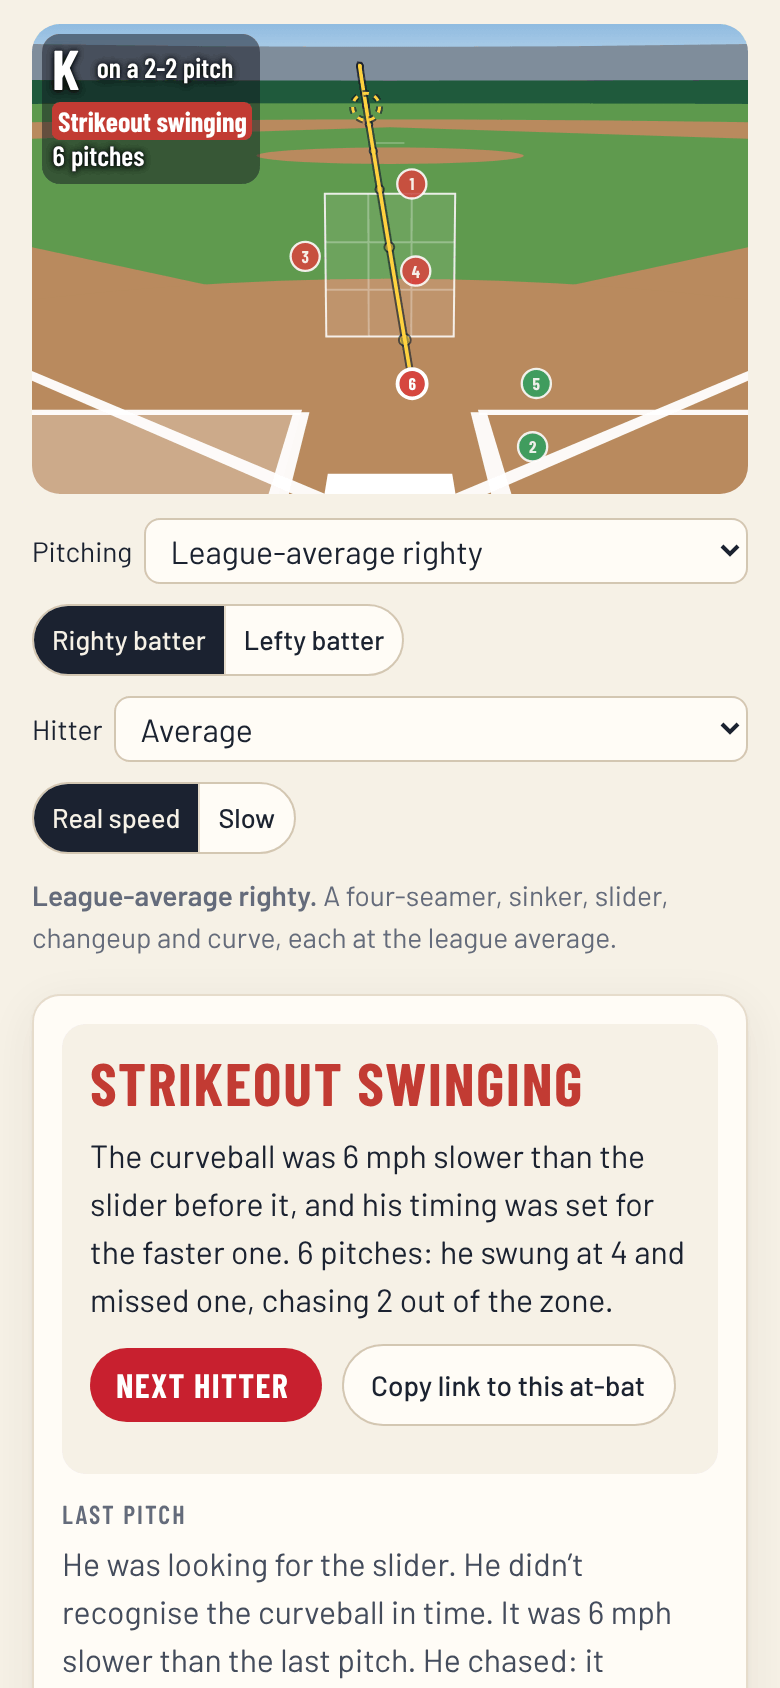
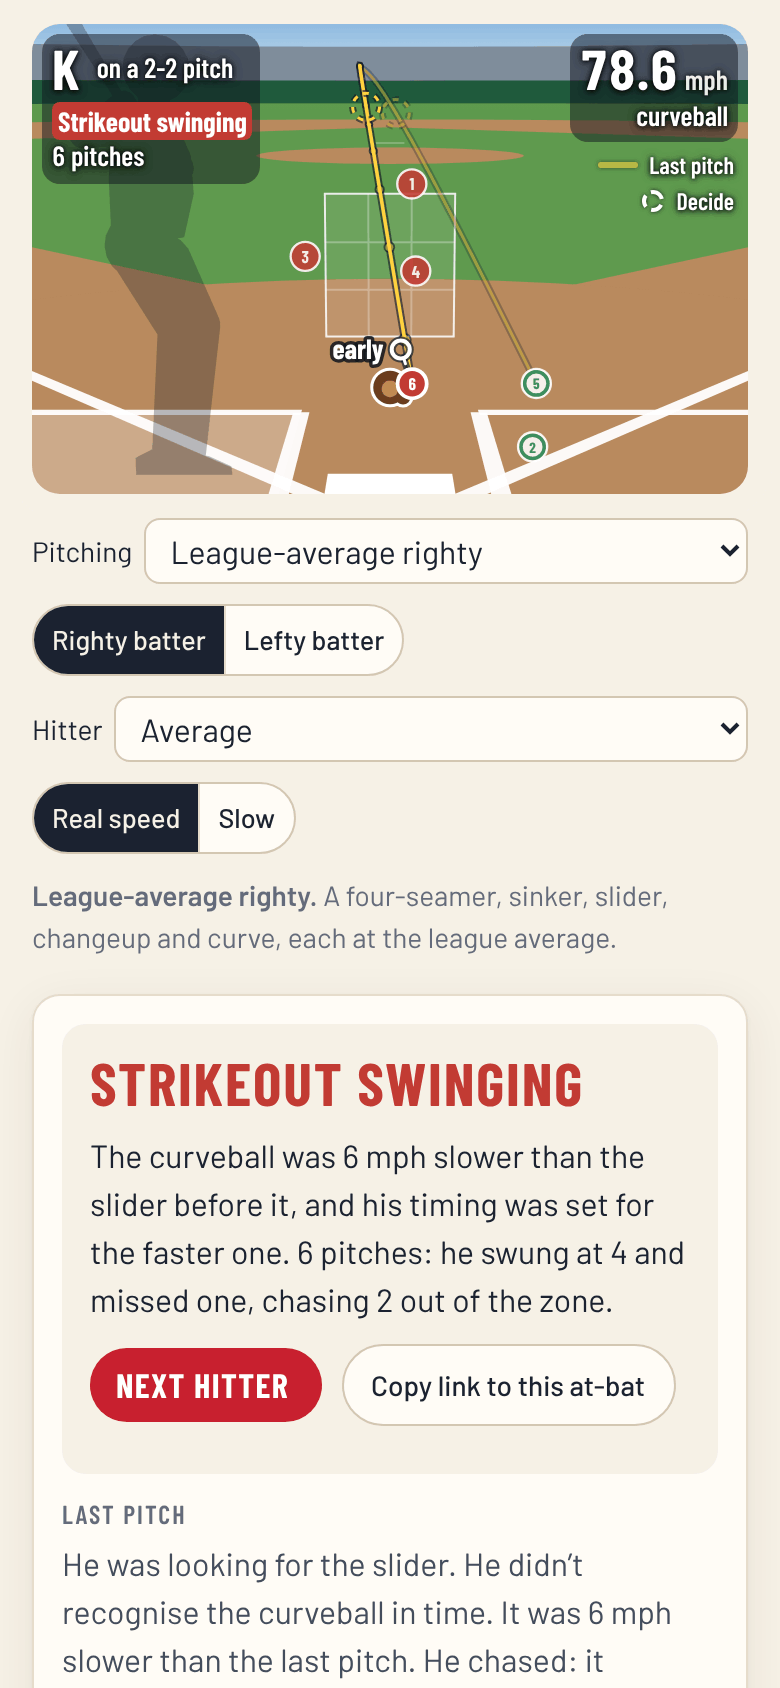
Say in the README what the at-bat's picture now shows, and redraw it
The README said each pitch was marked where it crossed, red for strikes and
green for balls. It now says the batter stands see-through in his box, a
catcher's mitt shows where the pitch is called with a line to a pitch that
missed it by more than 6 inches, strikes, balls and balls in play are discs,
rings and squares, the speed is on a radar board in the top-right corner, the
last pitch's path stays faint under the new one, the hitter's read comes up at
the decision point at Slow, and a ring shows where he swung. It says what the
tests now check, and the picture of the README's strikeout is redrawn with all
of it.

Claude-Session: https://claude.ai/code/session_019UHeVbxYLoFfW22STjmE8C

diff --git a/README.md b/README.md
@@ -13,7 +13,7 @@
   &nbsp;
   <img src="docs/phone-chart.png" alt="The whole arsenal on one movement chart, how far spin moves each pitch up or down and to the arm or glove side: the four-seamer holds up 15.6 inches, the sinker runs 15.1 inches to the arm side, the sweeper 13.6 to the glove side, and the curve and the knuckle curve drop about 10; under it the table starts with the four-seamer, 30.7% of pitches, 94.8 mph, 22 misses per 100 swings" width="250">
   &nbsp;
-  <img src="docs/phone-atbat.png" alt="Pitching to a hitter: six pitches marked where they crossed the plate, red for strikes and green for balls; the readout says K on a 2-2 pitch, a strikeout swinging on a curveball in the dirt, and the scout's note says it was 6 mph slower than the slider before it" width="250">
+  <img src="docs/phone-atbat.png" alt="Pitching to a hitter: the batter stands see-through in his box, and six pitches are marked where they crossed the plate, red discs for strikes and green rings for balls; the readout says K on a 2-2 pitch, a strikeout swinging, and the radar board in the corner 78.6 mph, curveball; a ring where he swung at it, marked early, sits just above it, the slider before it is faint beside its path, and the scout's note says the curve was 6 mph slower than that slider" width="250">
 </p>
 
 ## How it works
@@ -25,7 +25,7 @@
 - **The grip**, drawn as the pitcher sees it from behind, with see-through fingers so the seams show underneath.
 - **The spin**, shown 40 times slower, from behind the pitcher (with a clock for the tilt) or from the side. A tap on the ball stops it and starts it again. The seam pattern follows the pitch: four seams a turn for a four-seamer, two for a sinker, the red dot of a slider's bullet spin.
 - **The whole arsenal**: every pitch on one movement chart, and a table of how often each is thrown, how hard, and how often hitters miss it.
-- **Pitch to a hitter.** Pick a pitcher (a league-average righty, or one of nine real 2026 arsenals, from Paul Skenes to Tyler Rogers's submarine sinker and Matt Waldron's knuckleball) and a righty or lefty batter (each pitch's share beside it is of what that pitcher threw to that side of the plate in 2026), and the kind of hitter: the average one, or a free swinger, a patient, contact or power hitter. Call each pitch and one of 25 spots, the strike zone's nine boxes (framed on the grid) and the ring around them, and throw it; from a keyboard the pitches and the spots are one Tab stop each, picked with the arrow keys. Pitches miss their spots by a realistic amount, and each comes in at its own speed. Each one is marked where it crossed the plate, with what happened in a tag of its mark's colour over the picture (a pitch that crosses on top of an earlier one leaves a ring of the earlier one's colour showing round it), and why: what the hitter was looking for, whether he picked it up, and where and when he swung. The at-bat ends with a scout's note on what decided it. "What would a catcher call?" suggests a typical call for the count and the batter's side, another each time it's asked, and says what big-league pitchers and hitters did in that count in 2026, "Throw each of his pitches 400 times from here" charts what every pitch in the arsenal does per 100 throws from the same count and spot, against the hitter as he stands after everything he has seen, and what matters in that count: strikeouts with two strikes, walks with three balls, otherwise strikes and balls (once the at-bat is over, it charts the count and spot of its last pitch: what else he could have thrown there), and "Copy link to this at-bat" makes a link that replays it exactly on the same version of the hitter. A link carries that version: one made against an earlier hitter still opens and replays, on today's, with a line under the pitch log saying the same calls may play out differently. The address keeps that link as you pitch, so reloading the page picks the at-bat up where it was, and a phone's Share sends it. A link that arrives cut off, or with a full stop or bracket from a message on the end, replays as much as can be read and says what was left out.
+- **Pitch to a hitter.** Pick a pitcher (a league-average righty, or one of nine real 2026 arsenals, from Paul Skenes to Tyler Rogers's submarine sinker and Matt Waldron's knuckleball) and a righty or lefty batter (each pitch's share beside it is of what that pitcher threw to that side of the plate in 2026), and the kind of hitter: the average one, or a free swinger, a patient, contact or power hitter. Call each pitch and one of 25 spots, the strike zone's nine boxes (framed on the grid) and the ring around them, and throw it; from a keyboard the pitches and the spots are one Tab stop each, picked with the arrow keys. Pitches miss their spots by a realistic amount, and each comes in at its own speed. The batter stands in his box on the picture, a flat figure you can see through, his knees and the letters on his chest level with the bottom and top of the strike zone, and a catcher's mitt shows where the pitch is called from the moment a spot is picked. Each pitch is marked where it crossed the plate, a strike with a red disc, a ball with a green ring and a ball in play with a blue square, with a thin line back to the mitt when it missed by more than 6 inches, and what happened in a tag of its mark's colour over the picture (a pitch that crosses on top of an earlier one leaves an outline of the earlier one's colour showing round it). Its speed is big in the top-right corner, as on a stadium's radar board. The last pitch's path stays faint under the new one, with its decision ring, so two pitches out of the same tunnel are seen to look alike until the decision point and then split, and at Slow the hitter's read comes up as the ball reaches the decision point ("Sitting on the slider · swings"). Once a pitch is in, a small ring shows where he swung at it, with "early" or "late" beside it when he missed out in front or behind (for a strike he took thinking it would miss, where he thought it would cross), and the words say why: what the hitter was looking for, whether he picked it up, and where and when he swung. The at-bat ends with a scout's note on what decided it. "What would a catcher call?" suggests a typical call for the count and the batter's side, another each time it's asked, and says what big-league pitchers and hitters did in that count in 2026, "Throw each of his pitches 400 times from here" charts what every pitch in the arsenal does per 100 throws from the same count and spot, against the hitter as he stands after everything he has seen, and what matters in that count: strikeouts with two strikes, walks with three balls, otherwise strikes and balls (once the at-bat is over, it charts the count and spot of its last pitch: what else he could have thrown there), and "Copy link to this at-bat" makes a link that replays it exactly on the same version of the hitter. A link carries that version: one made against an earlier hitter still opens and replays, on today's, with a line under the pitch log saying the same calls may play out differently. The address keeps that link as you pitch, so reloading the page picks the at-bat up where it was, and a phone's Share sends it. A link that arrives cut off, or with a full stop or bracket from a message on the end, replays as much as can be read and says what was left out.
 - Links go straight to a pitch, like [junkdrawer.works/arsenal/#sweeper](https://junkdrawer.works/arsenal/#sweeper), and keep the pitch thrown with it and a left-hander: [#sweeper+sinker.lefty](https://junkdrawer.works/arsenal/#sweeper+sinker.lefty) is a lefty's sweeper thrown with his sinker. No account and nothing saved. It works offline and installs to a phone's home screen.
 
 ## The numbers
@@ -76,5 +76,5 @@ To put it online with GitHub Pages: **Settings → Pages → Build and deploymen
 - `fonts/`: Barlow and Barlow Condensed (SIL Open Font License), served from here so nothing loads from elsewhere.
 - `sw.js`: keeps a copy for using offline, and opens from it when the connection is up but not answering. `FILES` in it is a fingerprint of the files it keeps, so a release replaces the whole copy at once; the e2e test says what to set it to.
 - `test/atbat.test.mjs` plays every pitch of every pitcher to every spot, replays an at-bat from its seed, writes and reads the links of 2,000 at-bats called at random, at every pitch of each, and reads links cut off or with something on the end, replays five pinned links pitch by pitch, so a change to how the hitter plays fails until his version goes up, checks the count's rules, and runs the lab (`test/lab.mjs`): thousands of at-bats on three seeds pooled, measured against the league overall, in every count (swings, misses, fouls and called strikes), for each kind of pitch (misses, swings in the zone and chases), by where pitches crossed (misses and wOBA on contact), and for each real pitcher's pitches, strikeouts, walks and wOBA, and Waldron's knuckleballs in the zone, and the platoon split, a batter on the pitcher's side of the plate against one on the other, each against 2026's two lines on that side, and each kind of hitter against his quarter of the qualified hitters (chases and misses per swing within 3 points on every seed), plus that a changeup after a fastball fools him more than one after a changeup, that throwing down the middle every pitch, one pitch to one spot or two in turn does clearly worse than a pitcher's own calls (and no better, for Miller and Rogers down the middle), and that Miller's four-seamer up and slider down and away in turn strike out under 50% on every seed, and that 400 throws of each pitch from one count and spot put the same pitch on top whatever the seed, against a hitter who remembers the whole at-bat. It reads the words of thousands of at-bats, the pitchers' own calls and those 2,000 random ones, for what reads badly: idioms, American spellings, a decision point blamed when the pitches were far apart or the same kind, his timing blamed when he wasn't out in front, and weak contact said the wrong way round for where the pitch crossed; and it checks that every speed in a real pitcher's line is one of his pitches', and that this README's strikeouts are within a point of the lab's and the league's and its count of pitches is the season's.
-- `test/physics.test.mjs` checks that every pitch is aimed where Statcast's crossed the plate, that every one but the knuckleball, which wobbles, lands there, and that the gap to its ghost is the Statcast movement; that every pitch's drop is close to Statcast's; the flight times; the tilt clock; that the at-bat's view marks a pitch at the ground and shows the pitcher's hand on a phone, a computer and a tablet; that the paths, the ghost, the strike zone and the chalk are as thick on a phone as on a computer; and that the newest mark grows in as it lands and a mark covered by a later one keeps a ring showing. `test/e2e.mjs` picks pitches every way the page offers, throws them from every camera, pairs two and checks what the caption says about them, checks that the paths stand out on the light sky, switches hands, dismisses the movement chart's tooltip with Escape, stops the spinning ball, pitches to a hitter by tapping on a 390px and a 320px phone and on a phone held sideways and with the keyboard's arrow keys, checks what a screen reader hears for each pitch, that each pitch's share follows the batter's side, picks a kind of hitter and reloads with him, reloads partway through an at-bat, opens at-bat links with a full stop or a bracket on the end, cut off or garbled, or made against another version of the hitter, and #Sweeper in capitals, checks that no line of the log starts with its separating dot at 390 and 320px, that the count and what happened over the at-bat's picture never cover a pitch thrown high and off the plate (at 320, 360 and 390px, sideways and on a tablet, to either batter) and that what happened is in a tag that reads at 4.5 to 1, that no green line shows along either picture's bottom edge on a computer, that the dark palette's stadium lights are seen whole, clear of the words, that the call fits under the at-bat's picture from the first pitch to Throw for every pitcher on an iPhone 14 with Safari's bars tucked away (390x750), that Aaron Nola's "Knuckle curve" keeps to one line at 320 and 360px, that the buttons are reached 44px tall without a neighbour taking the tap and the lists are in 16px words, which an iPhone doesn't zoom into, that two pitches' times stay clear of the legend at 320, 360 and 375px, that the time over the picture is written only when it changes, that a pitch picked far down the page waits at the release until the picture is back in view, and that the lede's link goes down to Pitch to a hitter; it asks Chrome whether it can be installed, opens an at-bat link on a tablet either way up and on a computer in both palettes, and checks it opens offline, opens from its copy within 8 seconds when the connection stalls, and takes a new release's copy from the server. It serves the site under /arsenal/ the way GitHub Pages does, with a ten-minute cache.
+- `test/physics.test.mjs` checks that every pitch is aimed where Statcast's crossed the plate, that every one but the knuckleball, which wobbles, lands there, and that the gap to its ghost is the Statcast movement; that every pitch's drop is close to Statcast's; the flight times; the tilt clock; that the at-bat's view marks a pitch at the ground and shows the pitcher's hand on a phone, a computer and a tablet; that the paths, the ghost, the strike zone and the chalk are as thick on a phone as on a computer; that strikes, balls and balls in play are marked with discs, rings and squares in the end card's colours, their numbers at 4.9 to 1 or more, that the newest mark grows in as it lands and a mark covered by a later one keeps an outline showing; that the batter stands in his box with his knees and letters level with the zone, turned round for a left-handed batter, clear of every spot off the plate inside on a phone, a computer and a tablet; and that the catcher's target is under the pitch with the line to a pitch that missed it under its mark, where the hitter swung is a small ring under the marks with its word over them, and the last pitch's path and decision ring are drawn faint under the new one. `test/e2e.mjs` picks pitches every way the page offers, throws them from every camera, pairs two and checks what the caption says about them, checks that the paths stand out on the light sky, switches hands, dismisses the movement chart's tooltip with Escape, stops the spinning ball, pitches to a hitter by tapping on a 390px and a 320px phone and on a phone held sideways and with the keyboard's arrow keys, checks what a screen reader hears for each pitch, that each pitch's share follows the batter's side, picks a kind of hitter and reloads with him, reloads partway through an at-bat, opens at-bat links with a full stop or a bracket on the end, cut off or garbled, or made against another version of the hitter, and #Sweeper in capitals, checks that no line of the log starts with its separating dot at 390 and 320px, that the count and what happened over the at-bat's picture's top-left corner, and the radar board and its key in the top-right, never cover a pitch thrown high and off the plate (at 320, 360 and 390px, sideways and on a tablet, to either batter) and that what happened is in a tag that reads at 4.5 to 1, that the log's numbers are in their marks' shapes and read at 4.5 to 1 in both palettes, that the catcher's mitt follows the spot picked and a line runs to a pitch that missed it by more than 6 inches, that the ring for where the hitter swung is the last pitch's and comes once it's in, that the last pitch stays faint under the next with its key, and that at Slow the hitter's read shows from the decision point to the plate, and never at real speed, that no green line shows along either picture's bottom edge on a computer, that the dark palette's stadium lights are seen whole, clear of the words, that the call fits under the at-bat's picture from the first pitch to Throw for every pitcher on an iPhone 14 with Safari's bars tucked away (390x750), that Aaron Nola's "Knuckle curve" keeps to one line at 320 and 360px, that the buttons are reached 44px tall without a neighbour taking the tap and the lists are in 16px words, which an iPhone doesn't zoom into, that two pitches' times stay clear of the legend at 320, 360 and 375px, that the time over the picture is written only when it changes, that a pitch picked far down the page waits at the release until the picture is back in view, and that the lede's link goes down to Pitch to a hitter; it asks Chrome whether it can be installed, opens an at-bat link on a tablet either way up and on a computer in both palettes, and checks it opens offline, opens from its copy within 8 seconds when the connection stalls, and takes a new release's copy from the server. It serves the site under /arsenal/ the way GitHub Pages does, with a ten-minute cache.
 - `test/single.mjs` builds the one-file copy and opens it the way a host shows one, written into a frame on another page that may run scripts and nothing else: the lede's link goes down to Pitch to a hitter without the frame leaving the copy, an at-bat plays to its end, and nothing goes wrong on the way.
